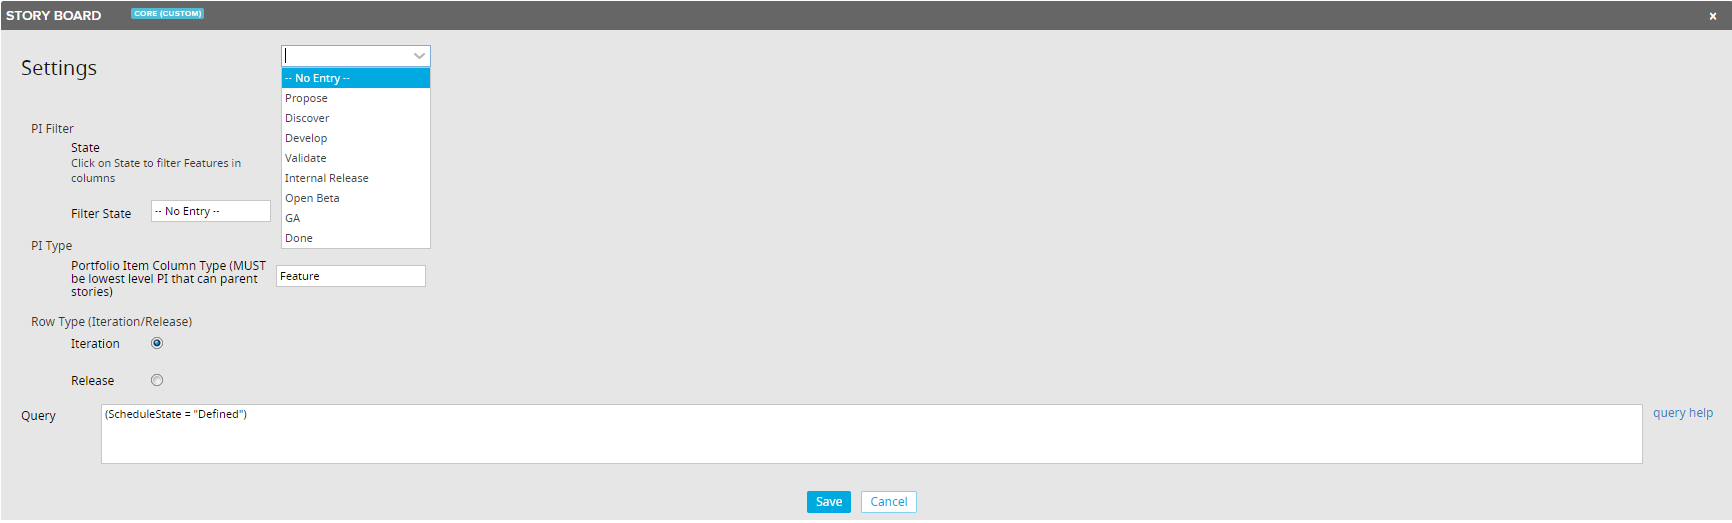
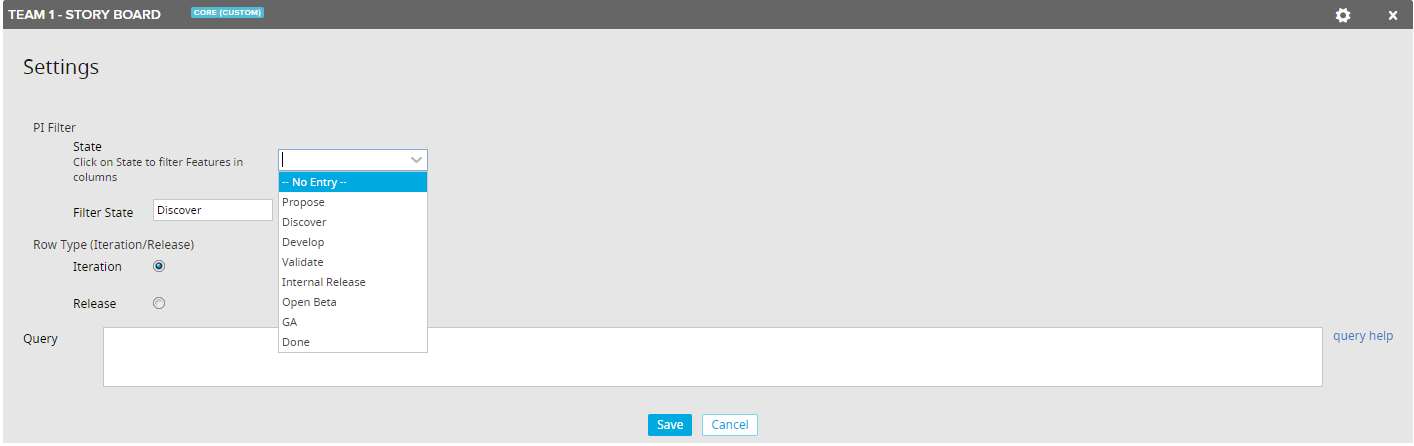
Updated header

Changed region(s): [[0.0, 0.0, 1.0, 0.991], [0.0, 0.1166, 0.0622, 0.1749]]

diff --git a/deploy/App-external.html b/deploy/App-external.html
@@ -7,7 +7,7 @@
 
     <script type="text/javascript">
         Rally.onReady(function () {
-                Ext.define("Rally.ui.cardboard.row.HeaderFix",{override:"Rally.ui.cardboard.row.Header",_getTitle:function(){var value=this.getValue();return null!=value?value.Project.Name+" - "+value.Name:"-- Not Scheduled --"}}),Ext.define("StoryMap",{extend:"Rally.app.App",componentCls:"app",requires:["Rally.ui.cardboard.plugin.FixedHeader"],launch:function(){app=this;var filterState=app.getSetting("PIStateFilter"),PIFilter=Ext.create("Ext.util.Filter",{});"-- No Entry --"!=filterState&""!=filterState&&(PIFilter=Ext.create("Ext.util.Filter",{property:"State",value:filterState})),Ext.create("Rally.data.wsapi.Store",{model:"PortfolioItem/"+app.getSetting("PITypeField"),fetch:["Name","ObjectID","Project","FormattedID"],limit:1/0,filters:PIFilter,sorters:[{property:"Rank",direction:"ASC"}],autoLoad:!0,listeners:{load:function(myStore,myData,mySuccess){var columns=[{record:null,value:null,columnHeaderConfig:{headerData:{PIhdr:"No Parent"}}}];_.each(myData,function(record){columns.push({record:record,value:record.getRef().getRelativeUri(),columnHeaderConfig:{headerData:{PIhdr:record.get("FormattedID")+" - "+record.get("_refObjectName")}}})}),app._addNewButton(),app._addBoard(columns)},scope:this}})},_addNewButton:function(){app.addButton&&app.addButton.destroy(),addNewConfig={xtype:"rallyaddnew",recordTypes:["User Story"],ignoredRequiredFields:["Name","ScheduleState","Project","Owner"],listeners:{create:function(addNew,record){}},showAddWithDetails:!0},app.addButton=this.add(addNewConfig)},_addBoard:function(columns){this.down("#myBoard")&&this.remove("myBoard"),boardConfig={xtype:"rallycardboard",types:["User Story"],storeConfig:{filters:app.getQueryFilter()},attribute:app.getSetting("PITypeField"),itemId:"myBoard",context:this.getContext(),enableRanking:!0,cardConfig:{fields:["Name","PlanEstimate","Owner"],editable:!0,showIconsAndHighlightBorder:!0,showReadyIcon:!0,showBlockedIcon:!0,showColorIcon:!0,showPlusIcon:!0,showGearIcon:!0},plugins:[{ptype:"rallyfixedheadercardboard"}],columnConfig:{columnHeaderConfig:{headerTpl:"{PIhdr}"},listeners:{scope:this,beforecarddroppedsave:function(column,card){var rec=card.getRecord();rec.set("PortfolioItem",column.getValue())}}},columns:columns,rowConfig:{field:app.getSetting("RowType"),enableCrossRowDragging:!0,sortDirection:"ASC"}},console.log(boardConfig),app.board=this.add(boardConfig)},_addRowButton:function(){app.rowButton&&app.rowButton.destroy(),addNewRowConfig={html:'<div><input type="button" style="text-align:right;float:right;" value="Update" onClick="window.location.reload()"/></div>',xtype:"rallyaddnew",newButtonText:"+ New Row",recordTypes:[app.getSetting("RowType")],listeners:{create:function(addNew,record){app.launch()}},showAddWithDetails:!0},app.rowButton=app.add(addNewRowConfig)},getSettingsFields:function(){var values=[{xtype:"label",forId:"myFieldId1",text:"PI Filter",margin:"0 0 0 10"},{name:"PIStateFilterPicker",xtype:"rallyfieldvaluecombobox",model:"PortfolioItem/"+app.getSetting("PITypeField"),field:"State",boxLabelAlign:"after",fieldLabel:"State",margin:"0 0 15 50",labelStyle:"width:200px;",afterLabelTpl:"Click on State to filter Features in columns",handlesEvents:{myspecialevent1:function(field,model){this.setField(field.raw.fieldDefinition)}},listeners:{select:function(state_picker,records){this.fireEvent("state_selected",_.first(records).get("name"))}},bubbleEvents:["state_selected"]},{name:"PIStateFilter",width:200,xtype:"rallytextfield",boxLabelAlign:"after",fieldLabel:"Filter State",readOnly:!0,margin:"0 0 15 50",labelStyle:"width:200px;",handlesEvents:{state_selected:function(state){this.setValue(state)}}},{xtype:"label",forId:"myFieldId2",text:"PI Type",margin:"0 0 0 10"},{name:"PITypeField",xtype:"rallytextfield",margin:"0 0 15 50",label:"Portfolio Item Column Type (MUST be lowest level PI that can parent stories)",labelWidth:200},{xtype:"label",forId:"myFieldId3",text:"Row Type (Iteration/Release)",margin:"0 0 0 10"},{xtype:"rallyradiofield",fieldLabel:"Iteration",margin:"0 0 15 50",name:"RowType",label:"Swimlane",inputValue:"Iteration"},{xtype:"rallyradiofield",margin:"0 0 15 50",fieldLabel:"Release",name:"RowType",inputValue:"Release"},{type:"query"}];return values},config:{defaultSettings:{PIStateFilter:"-- No Entry --",PITypeField:"Feature",RowType:"Iteration"}},getQueryFilter:function(){var queries=[];return app.getSetting("query")&&queries.push(Rally.data.QueryFilter.fromQueryString(app.getSetting("query"))),queries}});
+                Ext.define("Rally.ui.cardboard.row.HeaderFix",{override:"Rally.ui.cardboard.row.Header",_getTitle:function(){var value=this.getValue();return null!=value?value.Project.Name+" - "+value.Name:"-- Not Scheduled --"}}),Ext.define("StoryMap",{extend:"Rally.app.App",componentCls:"app",requires:["Rally.ui.cardboard.plugin.FixedHeader"],launch:function(){app=this,Ext.create("Rally.data.WsapiDataStore",{autoLoad:!0,remoteFilter:!1,model:"TypeDefinition",sorters:[{property:"Ordinal",direction:"Desc"}],filters:[{property:"Parent.Name",operator:"=",value:"Portfolio Item"},{property:"Creatable",operator:"=",value:"true"}],listeners:{load:function(store,recs){piTypes={},Ext.Array.each(recs,function(type){piTypes[type.get("Ordinal")+""]=type.get("TypePath")}),app.PIType=piTypes[0],this._buildHeader(piTypes[0])},scope:this}})},_buildHeader:function(piType){var filterState=app.getSetting("PIStateFilter"),PIFilter=Ext.create("Ext.util.Filter",{});"-- No Entry --"!=filterState&""!=filterState&&(PIFilter=Ext.create("Ext.util.Filter",{property:"State",value:filterState})),Ext.create("Rally.data.wsapi.Store",{model:piType,fetch:["Name","ObjectID","Project","FormattedID","DisplayColor"],limit:1/0,filters:PIFilter,sorters:[{property:"Rank",direction:"ASC"}],autoLoad:!0,listeners:{load:function(myStore,myData,mySuccess){var columns=[{record:null,value:null,columnHeaderConfig:{headerData:{PIhdr:'<p style="color: Red; font-size: 18px"; font-weight: bolder>No Parent</>'}}}];_.each(myData,function(record){var fpiColor=record.get("DisplayColor"),hdrStr='<p style="color: '+fpiColor+'; font-size: 18px; font-weight: bolder"><a href="https://rally1.rallydev.com/#/detail'+record.get("_ref")+'" target = "_top">'+record.get("FormattedID")+"</a> - "+record.get("_refObjectName");columns.push({record:record,value:record.getRef().getRelativeUri(),columnHeaderConfig:{headerData:{PIhdr:hdrStr}}})}),app._addNewButton(),app._addBoard(columns,piType)},scope:this}})},_addNewButton:function(){app.addButton&&app.addButton.destroy(),addNewConfig={xtype:"rallyaddnew",recordTypes:["User Story"],ignoredRequiredFields:["Name","ScheduleState","Project","Owner"],listeners:{create:function(addNew,record){}},showAddWithDetails:!0},app.addButton=this.add(addNewConfig)},_addBoard:function(columns,piType){this.down("#myBoard")&&this.remove("myBoard"),boardConfig={xtype:"rallycardboard",types:["User Story"],storeConfig:{filters:app.getQueryFilter()},attribute:piType.split("/")[1],itemId:"myBoard",context:this.getContext(),enableRanking:!0,cardConfig:{fields:["Name","PlanEstimate","Owner"],editable:!0,showIconsAndHighlightBorder:!0,showReadyIcon:!0,showBlockedIcon:!0,showColorIcon:!0,showPlusIcon:!0,showGearIcon:!0},plugins:[{ptype:"rallyfixedheadercardboard"}],columnConfig:{columnHeaderConfig:{headerTpl:"{PIhdr}"},listeners:{scope:this,beforecarddroppedsave:function(column,card){var rec=card.getRecord();rec.set("PortfolioItem",column.getValue())}}},columns:columns,rowConfig:{field:app.getSetting("RowType"),enableCrossRowDragging:!0,sortDirection:"ASC"}},app.board=this.add(boardConfig)},_addRowButton:function(){app.rowButton&&app.rowButton.destroy(),addNewRowConfig={html:'<div><input type="button" style="text-align:right;float:right;" value="Update" onClick="window.location.reload()"/></div>',xtype:"rallyaddnew",newButtonText:"+ New Row",recordTypes:[app.getSetting("RowType")],listeners:{create:function(addNew,record){app.launch()}},showAddWithDetails:!0},app.rowButton=app.add(addNewRowConfig)},getSettingsFields:function(){var values=[{xtype:"label",forId:"myFieldId1",text:"PI Filter",margin:"0 0 0 10"},{name:"PIStateFilterPicker",xtype:"rallyfieldvaluecombobox",model:app.PIType,field:"State",boxLabelAlign:"after",fieldLabel:"State",margin:"0 0 15 50",labelStyle:"width:200px;",afterLabelTpl:"Click on State to filter Features in columns",handlesEvents:{myspecialevent1:function(field,model){this.setField(field.raw.fieldDefinition)}},listeners:{select:function(state_picker,records){this.fireEvent("state_selected",_.first(records).get("name"))}},bubbleEvents:["state_selected"]},{name:"PIStateFilter",width:200,xtype:"rallytextfield",boxLabelAlign:"after",fieldLabel:"Filter State",readOnly:!0,margin:"0 0 15 50",labelStyle:"width:200px;",handlesEvents:{state_selected:function(state){this.setValue(state)}}},{xtype:"label",forId:"myFieldId3",text:"Row Type (Iteration/Release)",margin:"0 0 0 10"},{xtype:"rallyradiofield",fieldLabel:"Iteration",margin:"0 0 15 50",name:"RowType",label:"Swimlane",inputValue:"Iteration"},{xtype:"rallyradiofield",margin:"0 0 15 50",fieldLabel:"Release",name:"RowType",inputValue:"Release"},{type:"query"}];return values},config:{defaultSettings:{PIStateFilter:"-- No Entry --",PITypeField:"Feature",RowType:"Iteration"}},getQueryFilter:function(){var queries=[];return app.getSetting("query")&&queries.push(Rally.data.QueryFilter.fromQueryString(app.getSetting("query"))),queries}});
 
             Rally.launchApp('StoryMap', {
                 name:"StoryMap",
@@ -19,7 +19,7 @@
 
 
     <style type="text/css">
-        
+        .app p{margin:0}
     </style>
 </head>
 <body>

diff --git a/deploy/App.html b/deploy/App.html
@@ -7,7 +7,7 @@
 
     <script type="text/javascript">
         Rally.onReady(function () {
-                Ext.define("Rally.ui.cardboard.row.HeaderFix",{override:"Rally.ui.cardboard.row.Header",_getTitle:function(){var value=this.getValue();return null!=value?value.Project.Name+" - "+value.Name:"-- Not Scheduled --"}}),Ext.define("StoryMap",{extend:"Rally.app.App",componentCls:"app",requires:["Rally.ui.cardboard.plugin.FixedHeader"],launch:function(){app=this;var filterState=app.getSetting("PIStateFilter"),PIFilter=Ext.create("Ext.util.Filter",{});"-- No Entry --"!=filterState&""!=filterState&&(PIFilter=Ext.create("Ext.util.Filter",{property:"State",value:filterState})),Ext.create("Rally.data.wsapi.Store",{model:"PortfolioItem/"+app.getSetting("PITypeField"),fetch:["Name","ObjectID","Project","FormattedID"],limit:1/0,filters:PIFilter,sorters:[{property:"Rank",direction:"ASC"}],autoLoad:!0,listeners:{load:function(myStore,myData,mySuccess){var columns=[{record:null,value:null,columnHeaderConfig:{headerData:{PIhdr:"No Parent"}}}];_.each(myData,function(record){columns.push({record:record,value:record.getRef().getRelativeUri(),columnHeaderConfig:{headerData:{PIhdr:record.get("FormattedID")+" - "+record.get("_refObjectName")}}})}),app._addNewButton(),app._addBoard(columns)},scope:this}})},_addNewButton:function(){app.addButton&&app.addButton.destroy(),addNewConfig={xtype:"rallyaddnew",recordTypes:["User Story"],ignoredRequiredFields:["Name","ScheduleState","Project","Owner"],listeners:{create:function(addNew,record){}},showAddWithDetails:!0},app.addButton=this.add(addNewConfig)},_addBoard:function(columns){this.down("#myBoard")&&this.remove("myBoard"),boardConfig={xtype:"rallycardboard",types:["User Story"],storeConfig:{filters:app.getQueryFilter()},attribute:app.getSetting("PITypeField"),itemId:"myBoard",context:this.getContext(),enableRanking:!0,cardConfig:{fields:["Name","PlanEstimate","Owner"],editable:!0,showIconsAndHighlightBorder:!0,showReadyIcon:!0,showBlockedIcon:!0,showColorIcon:!0,showPlusIcon:!0,showGearIcon:!0},plugins:[{ptype:"rallyfixedheadercardboard"}],columnConfig:{columnHeaderConfig:{headerTpl:"{PIhdr}"},listeners:{scope:this,beforecarddroppedsave:function(column,card){var rec=card.getRecord();rec.set("PortfolioItem",column.getValue())}}},columns:columns,rowConfig:{field:app.getSetting("RowType"),enableCrossRowDragging:!0,sortDirection:"ASC"}},console.log(boardConfig),app.board=this.add(boardConfig)},_addRowButton:function(){app.rowButton&&app.rowButton.destroy(),addNewRowConfig={html:'<div><input type="button" style="text-align:right;float:right;" value="Update" onClick="window.location.reload()"/></div>',xtype:"rallyaddnew",newButtonText:"+ New Row",recordTypes:[app.getSetting("RowType")],listeners:{create:function(addNew,record){app.launch()}},showAddWithDetails:!0},app.rowButton=app.add(addNewRowConfig)},getSettingsFields:function(){var values=[{xtype:"label",forId:"myFieldId1",text:"PI Filter",margin:"0 0 0 10"},{name:"PIStateFilterPicker",xtype:"rallyfieldvaluecombobox",model:"PortfolioItem/"+app.getSetting("PITypeField"),field:"State",boxLabelAlign:"after",fieldLabel:"State",margin:"0 0 15 50",labelStyle:"width:200px;",afterLabelTpl:"Click on State to filter Features in columns",handlesEvents:{myspecialevent1:function(field,model){this.setField(field.raw.fieldDefinition)}},listeners:{select:function(state_picker,records){this.fireEvent("state_selected",_.first(records).get("name"))}},bubbleEvents:["state_selected"]},{name:"PIStateFilter",width:200,xtype:"rallytextfield",boxLabelAlign:"after",fieldLabel:"Filter State",readOnly:!0,margin:"0 0 15 50",labelStyle:"width:200px;",handlesEvents:{state_selected:function(state){this.setValue(state)}}},{xtype:"label",forId:"myFieldId2",text:"PI Type",margin:"0 0 0 10"},{name:"PITypeField",xtype:"rallytextfield",margin:"0 0 15 50",label:"Portfolio Item Column Type (MUST be lowest level PI that can parent stories)",labelWidth:200},{xtype:"label",forId:"myFieldId3",text:"Row Type (Iteration/Release)",margin:"0 0 0 10"},{xtype:"rallyradiofield",fieldLabel:"Iteration",margin:"0 0 15 50",name:"RowType",label:"Swimlane",inputValue:"Iteration"},{xtype:"rallyradiofield",margin:"0 0 15 50",fieldLabel:"Release",name:"RowType",inputValue:"Release"},{type:"query"}];return values},config:{defaultSettings:{PIStateFilter:"-- No Entry --",PITypeField:"Feature",RowType:"Iteration"}},getQueryFilter:function(){var queries=[];return app.getSetting("query")&&queries.push(Rally.data.QueryFilter.fromQueryString(app.getSetting("query"))),queries}});
+                Ext.define("Rally.ui.cardboard.row.HeaderFix",{override:"Rally.ui.cardboard.row.Header",_getTitle:function(){var value=this.getValue();return null!=value?value.Project.Name+" - "+value.Name:"-- Not Scheduled --"}}),Ext.define("StoryMap",{extend:"Rally.app.App",componentCls:"app",requires:["Rally.ui.cardboard.plugin.FixedHeader"],launch:function(){app=this,Ext.create("Rally.data.WsapiDataStore",{autoLoad:!0,remoteFilter:!1,model:"TypeDefinition",sorters:[{property:"Ordinal",direction:"Desc"}],filters:[{property:"Parent.Name",operator:"=",value:"Portfolio Item"},{property:"Creatable",operator:"=",value:"true"}],listeners:{load:function(store,recs){piTypes={},Ext.Array.each(recs,function(type){piTypes[type.get("Ordinal")+""]=type.get("TypePath")}),app.PIType=piTypes[0],this._buildHeader(piTypes[0])},scope:this}})},_buildHeader:function(piType){var filterState=app.getSetting("PIStateFilter"),PIFilter=Ext.create("Ext.util.Filter",{});"-- No Entry --"!=filterState&""!=filterState&&(PIFilter=Ext.create("Ext.util.Filter",{property:"State",value:filterState})),Ext.create("Rally.data.wsapi.Store",{model:piType,fetch:["Name","ObjectID","Project","FormattedID","DisplayColor"],limit:1/0,filters:PIFilter,sorters:[{property:"Rank",direction:"ASC"}],autoLoad:!0,listeners:{load:function(myStore,myData,mySuccess){var columns=[{record:null,value:null,columnHeaderConfig:{headerData:{PIhdr:'<p style="color: Red; font-size: 18px"; font-weight: bolder>No Parent</>'}}}];_.each(myData,function(record){var fpiColor=record.get("DisplayColor"),hdrStr='<p style="color: '+fpiColor+'; font-size: 18px; font-weight: bolder"><a href="https://rally1.rallydev.com/#/detail'+record.get("_ref")+'" target = "_top">'+record.get("FormattedID")+"</a> - "+record.get("_refObjectName");columns.push({record:record,value:record.getRef().getRelativeUri(),columnHeaderConfig:{headerData:{PIhdr:hdrStr}}})}),app._addNewButton(),app._addBoard(columns,piType)},scope:this}})},_addNewButton:function(){app.addButton&&app.addButton.destroy(),addNewConfig={xtype:"rallyaddnew",recordTypes:["User Story"],ignoredRequiredFields:["Name","ScheduleState","Project","Owner"],listeners:{create:function(addNew,record){}},showAddWithDetails:!0},app.addButton=this.add(addNewConfig)},_addBoard:function(columns,piType){this.down("#myBoard")&&this.remove("myBoard"),boardConfig={xtype:"rallycardboard",types:["User Story"],storeConfig:{filters:app.getQueryFilter()},attribute:piType.split("/")[1],itemId:"myBoard",context:this.getContext(),enableRanking:!0,cardConfig:{fields:["Name","PlanEstimate","Owner"],editable:!0,showIconsAndHighlightBorder:!0,showReadyIcon:!0,showBlockedIcon:!0,showColorIcon:!0,showPlusIcon:!0,showGearIcon:!0},plugins:[{ptype:"rallyfixedheadercardboard"}],columnConfig:{columnHeaderConfig:{headerTpl:"{PIhdr}"},listeners:{scope:this,beforecarddroppedsave:function(column,card){var rec=card.getRecord();rec.set("PortfolioItem",column.getValue())}}},columns:columns,rowConfig:{field:app.getSetting("RowType"),enableCrossRowDragging:!0,sortDirection:"ASC"}},app.board=this.add(boardConfig)},_addRowButton:function(){app.rowButton&&app.rowButton.destroy(),addNewRowConfig={html:'<div><input type="button" style="text-align:right;float:right;" value="Update" onClick="window.location.reload()"/></div>',xtype:"rallyaddnew",newButtonText:"+ New Row",recordTypes:[app.getSetting("RowType")],listeners:{create:function(addNew,record){app.launch()}},showAddWithDetails:!0},app.rowButton=app.add(addNewRowConfig)},getSettingsFields:function(){var values=[{xtype:"label",forId:"myFieldId1",text:"PI Filter",margin:"0 0 0 10"},{name:"PIStateFilterPicker",xtype:"rallyfieldvaluecombobox",model:app.PIType,field:"State",boxLabelAlign:"after",fieldLabel:"State",margin:"0 0 15 50",labelStyle:"width:200px;",afterLabelTpl:"Click on State to filter Features in columns",handlesEvents:{myspecialevent1:function(field,model){this.setField(field.raw.fieldDefinition)}},listeners:{select:function(state_picker,records){this.fireEvent("state_selected",_.first(records).get("name"))}},bubbleEvents:["state_selected"]},{name:"PIStateFilter",width:200,xtype:"rallytextfield",boxLabelAlign:"after",fieldLabel:"Filter State",readOnly:!0,margin:"0 0 15 50",labelStyle:"width:200px;",handlesEvents:{state_selected:function(state){this.setValue(state)}}},{xtype:"label",forId:"myFieldId3",text:"Row Type (Iteration/Release)",margin:"0 0 0 10"},{xtype:"rallyradiofield",fieldLabel:"Iteration",margin:"0 0 15 50",name:"RowType",label:"Swimlane",inputValue:"Iteration"},{xtype:"rallyradiofield",margin:"0 0 15 50",fieldLabel:"Release",name:"RowType",inputValue:"Release"},{type:"query"}];return values},config:{defaultSettings:{PIStateFilter:"-- No Entry --",PITypeField:"Feature",RowType:"Iteration"}},getQueryFilter:function(){var queries=[];return app.getSetting("query")&&queries.push(Rally.data.QueryFilter.fromQueryString(app.getSetting("query"))),queries}});
 
             Rally.launchApp('StoryMap', {
                 name:"StoryMap",
@@ -19,7 +19,7 @@
 
 
     <style type="text/css">
-        
+        .app p{margin:0}
     </style>
 </head>
 <body>

diff --git a/deploy/App-uncompressed.html b/deploy/App-uncompressed.html
@@ -37,6 +37,28 @@ Ext.define('StoryMap', {
     ],
 	launch: function () {
 		app = this;
+		Ext.create('Rally.data.WsapiDataStore', {
+			autoLoad: true,
+			remoteFilter: false,
+			model: 'TypeDefinition',
+			sorters: [{	property: 'Ordinal',direction: 'Desc'}],
+			filters: [{	property: 'Parent.Name', operator: '=',	value: 'Portfolio Item'}, 
+				{property: 'Creatable',	operator: '=',value: 'true'	}],
+			listeners: {
+				load: function (store, recs) {
+					piTypes = {};				
+					Ext.Array.each(recs, function (type) {
+						// console.log('Found PI Type', type, type.get('Ordinal'), type.get('TypePath'));
+						piTypes[type.get('Ordinal') + ''] = type.get('TypePath');
+					});
+					app.PIType = piTypes['0'];
+					this._buildHeader(piTypes['0']);
+				},
+				scope: this
+			}
+		});
+	},
+	_buildHeader: function (piType) {
 		var filterState = app.getSetting('PIStateFilter');
 		//		console.log('in _onPIsLoaded');
 		var PIFilter = Ext.create('Ext.util.Filter', {});
@@ -47,8 +69,8 @@ Ext.define('StoryMap', {
 			});
 		}
 		Ext.create('Rally.data.wsapi.Store', {
-			model: 'PortfolioItem/' + app.getSetting('PITypeField'),
-			fetch: ['Name', 'ObjectID', 'Project', 'FormattedID'],
+			model: piType,
+			fetch: ['Name', 'ObjectID', 'Project', 'FormattedID','DisplayColor'],
 			limit: Infinity,
 			filters: PIFilter,
 			sorters: [{
@@ -63,30 +85,42 @@ Ext.define('StoryMap', {
 						value: null,
 						columnHeaderConfig: {
 							headerData: {
-								PIhdr: 'No Parent'
+								PIhdr: '<p style="color: Red; font-size: 18px"; font-weight: bolder>No Parent</>'
 							}
 						}
 					}];
 					_.each(myData, function (record) {
+						var fpiColor = record.get('DisplayColor');
+						var hdrStr = 
+							'<p style="color: ' + fpiColor + '; font-size: 18px; font-weight: bolder"><a href="https://rally1.rallydev.com/#/detail' +
+							record.get('_ref') + '" target = "_top">' +
+							record.get('FormattedID') +
+							'</a> - ' +
+							record.get('_refObjectName');
+
 						columns.push({
 //							tpl: Ext.create("Rally.ui.renderer.template.FormattedIDTemplate"),
 							record: record,
 							value: record.getRef().getRelativeUri(),
 							columnHeaderConfig: {
 								headerData: {
-									PIhdr: record.get('FormattedID') + ' - ' + record.get('_refObjectName')
+									PIhdr: hdrStr
 								}
 							}
 						});
 					});
 					app._addNewButton();
-					app._addBoard(columns);
+					app._addBoard(columns, piType);
 //					app._addRowButton();
 				},
 				scope: this
 			}
 		});
 	},
+
+
+
+
 	// Add AddNew Button to container
 	_addNewButton: function () {
 		if (app.addButton) app.addButton.destroy();
@@ -108,7 +142,7 @@ Ext.define('StoryMap', {
 		app.addButton = this.add(addNewConfig);
 	},
 	// add board to container
-	_addBoard: function (columns) {
+	_addBoard: function (columns, piType) {
 		if (this.down('#myBoard')) {
 			this.remove('myBoard');
 		}
@@ -118,7 +152,7 @@ Ext.define('StoryMap', {
 			storeConfig: {
 				filters: app.getQueryFilter()
 			},
-			attribute: app.getSetting('PITypeField'),
+			attribute: piType.split('/')[1],
 			itemId: 'myBoard',
 			context: this.getContext(),
 			enableRanking: true,
@@ -152,7 +186,7 @@ Ext.define('StoryMap', {
 				sortDirection: 'ASC' // ASC | DESC
 			}
 		};
-		console.log(boardConfig);
+//		console.log(boardConfig);
 		app.board = this.add(boardConfig);
 	},
 	// Add AddNew Button to container
@@ -185,7 +219,7 @@ Ext.define('StoryMap', {
 			{
 				name: 'PIStateFilterPicker',
 				xtype: 'rallyfieldvaluecombobox',
-				model: 'PortfolioItem/' + app.getSetting('PITypeField'),
+				model: app.PIType,
 				field: 'State',
 				boxLabelAlign: 'after',
 				fieldLabel: 'State',
@@ -221,19 +255,6 @@ Ext.define('StoryMap', {
 						this.setValue(state);
 					},
 				}
-			},
-			{
-				xtype: 'label',
-				forId: 'myFieldId2',
-				text: 'PI Type',
-				margin: '0 0 0 10'
-			},
-			{
-				name: 'PITypeField',
-				xtype: 'rallytextfield',
-				margin: '0 0 15 50',
-				label: "Portfolio Item Column Type (MUST be lowest level PI that can parent stories)",
-				labelWidth: 200
 			},
 			{
 				xtype: 'label',
@@ -291,6 +312,9 @@ Ext.define('StoryMap', {
     <style type="text/css">
         .app {
   /* Add app styles here */
+}
+.app p {
+  margin: 0;
 }
 
     </style>

diff --git a/App.js b/App.js
@@ -28,6 +28,28 @@ Ext.define('StoryMap', {
     ],
 	launch: function () {
 		app = this;
+		Ext.create('Rally.data.WsapiDataStore', {
+			autoLoad: true,
+			remoteFilter: false,
+			model: 'TypeDefinition',
+			sorters: [{	property: 'Ordinal',direction: 'Desc'}],
+			filters: [{	property: 'Parent.Name', operator: '=',	value: 'Portfolio Item'}, 
+				{property: 'Creatable',	operator: '=',value: 'true'	}],
+			listeners: {
+				load: function (store, recs) {
+					piTypes = {};				
+					Ext.Array.each(recs, function (type) {
+						// console.log('Found PI Type', type, type.get('Ordinal'), type.get('TypePath'));
+						piTypes[type.get('Ordinal') + ''] = type.get('TypePath');
+					});
+					app.PIType = piTypes['0'];
+					this._buildHeader(piTypes['0']);
+				},
+				scope: this
+			}
+		});
+	},
+	_buildHeader: function (piType) {
 		var filterState = app.getSetting('PIStateFilter');
 		//		console.log('in _onPIsLoaded');
 		var PIFilter = Ext.create('Ext.util.Filter', {});
@@ -38,8 +60,8 @@ Ext.define('StoryMap', {
 			});
 		}
 		Ext.create('Rally.data.wsapi.Store', {
-			model: 'PortfolioItem/' + app.getSetting('PITypeField'),
-			fetch: ['Name', 'ObjectID', 'Project', 'FormattedID'],
+			model: piType,
+			fetch: ['Name', 'ObjectID', 'Project', 'FormattedID','DisplayColor'],
 			limit: Infinity,
 			filters: PIFilter,
 			sorters: [{
@@ -54,30 +76,42 @@ Ext.define('StoryMap', {
 						value: null,
 						columnHeaderConfig: {
 							headerData: {
-								PIhdr: 'No Parent'
+								PIhdr: '<p style="color: Red; font-size: 18px"; font-weight: bolder>No Parent</>'
 							}
 						}
 					}];
 					_.each(myData, function (record) {
+						var fpiColor = record.get('DisplayColor');
+						var hdrStr = 
+							'<p style="color: ' + fpiColor + '; font-size: 18px; font-weight: bolder"><a href="https://rally1.rallydev.com/#/detail' +
+							record.get('_ref') + '" target = "_top">' +
+							record.get('FormattedID') +
+							'</a> - ' +
+							record.get('_refObjectName');
+
 						columns.push({
 //							tpl: Ext.create("Rally.ui.renderer.template.FormattedIDTemplate"),
 							record: record,
 							value: record.getRef().getRelativeUri(),
 							columnHeaderConfig: {
 								headerData: {
-									PIhdr: record.get('FormattedID') + ' - ' + record.get('_refObjectName')
+									PIhdr: hdrStr
 								}
 							}
 						});
 					});
 					app._addNewButton();
-					app._addBoard(columns);
+					app._addBoard(columns, piType);
 //					app._addRowButton();
 				},
 				scope: this
 			}
 		});
 	},
+
+
+
+
 	// Add AddNew Button to container
 	_addNewButton: function () {
 		if (app.addButton) app.addButton.destroy();
@@ -99,7 +133,7 @@ Ext.define('StoryMap', {
 		app.addButton = this.add(addNewConfig);
 	},
 	// add board to container
-	_addBoard: function (columns) {
+	_addBoard: function (columns, piType) {
 		if (this.down('#myBoard')) {
 			this.remove('myBoard');
 		}
@@ -109,7 +143,7 @@ Ext.define('StoryMap', {
 			storeConfig: {
 				filters: app.getQueryFilter()
 			},
-			attribute: app.getSetting('PITypeField'),
+			attribute: piType.split('/')[1],
 			itemId: 'myBoard',
 			context: this.getContext(),
 			enableRanking: true,
@@ -143,7 +177,7 @@ Ext.define('StoryMap', {
 				sortDirection: 'ASC' // ASC | DESC
 			}
 		};
-		console.log(boardConfig);
+//		console.log(boardConfig);
 		app.board = this.add(boardConfig);
 	},
 	// Add AddNew Button to container
@@ -176,7 +210,7 @@ Ext.define('StoryMap', {
 			{
 				name: 'PIStateFilterPicker',
 				xtype: 'rallyfieldvaluecombobox',
-				model: 'PortfolioItem/' + app.getSetting('PITypeField'),
+				model: app.PIType,
 				field: 'State',
 				boxLabelAlign: 'after',
 				fieldLabel: 'State',
@@ -212,19 +246,6 @@ Ext.define('StoryMap', {
 						this.setValue(state);
 					},
 				}
-			},
-			{
-				xtype: 'label',
-				forId: 'myFieldId2',
-				text: 'PI Type',
-				margin: '0 0 0 10'
-			},
-			{
-				name: 'PITypeField',
-				xtype: 'rallytextfield',
-				margin: '0 0 15 50',
-				label: "Portfolio Item Column Type (MUST be lowest level PI that can parent stories)",
-				labelWidth: 200
 			},
 			{
 				xtype: 'label',

diff --git a/app.css b/app.css
@@ -1,3 +1,4 @@
 .app {
      /* Add app styles here */
+     p { margin:0 }    
 }
